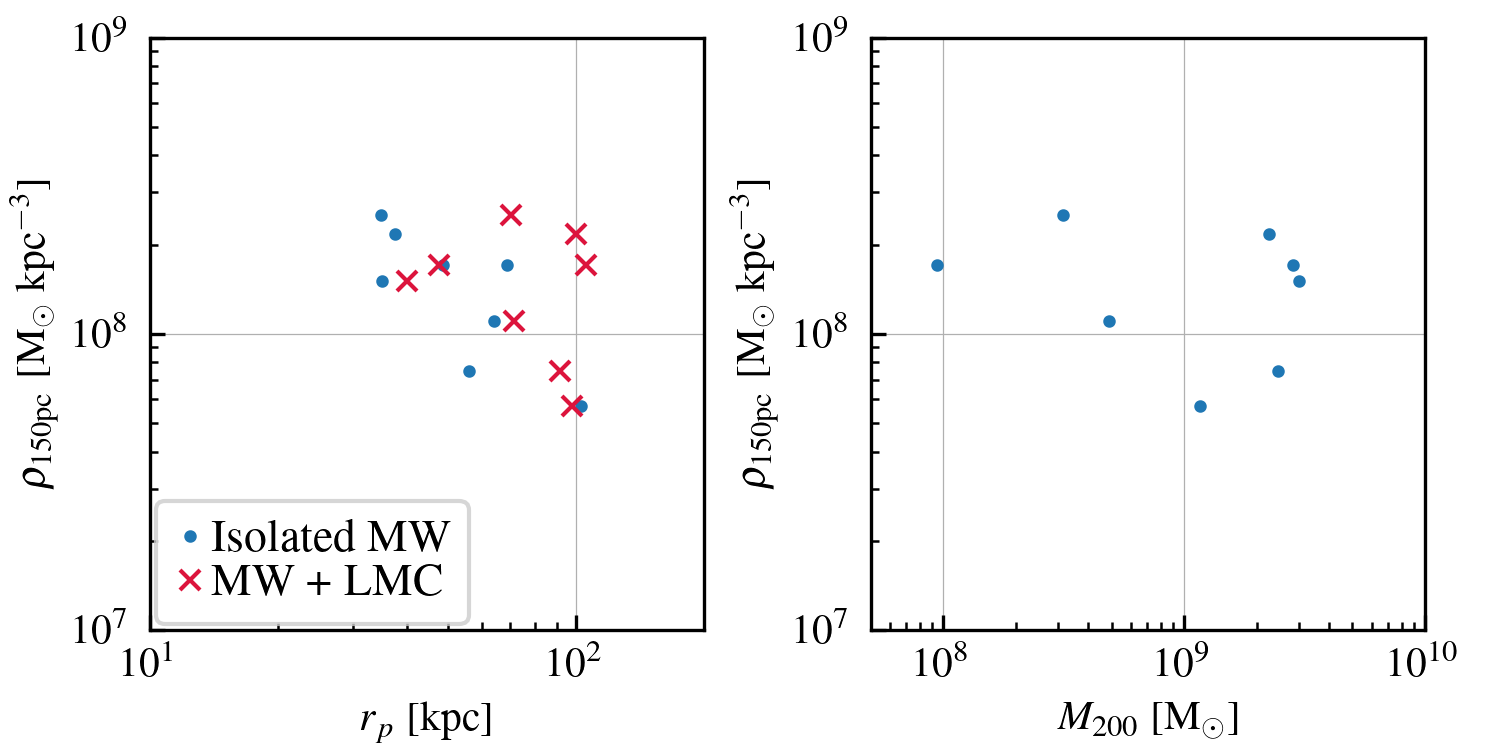
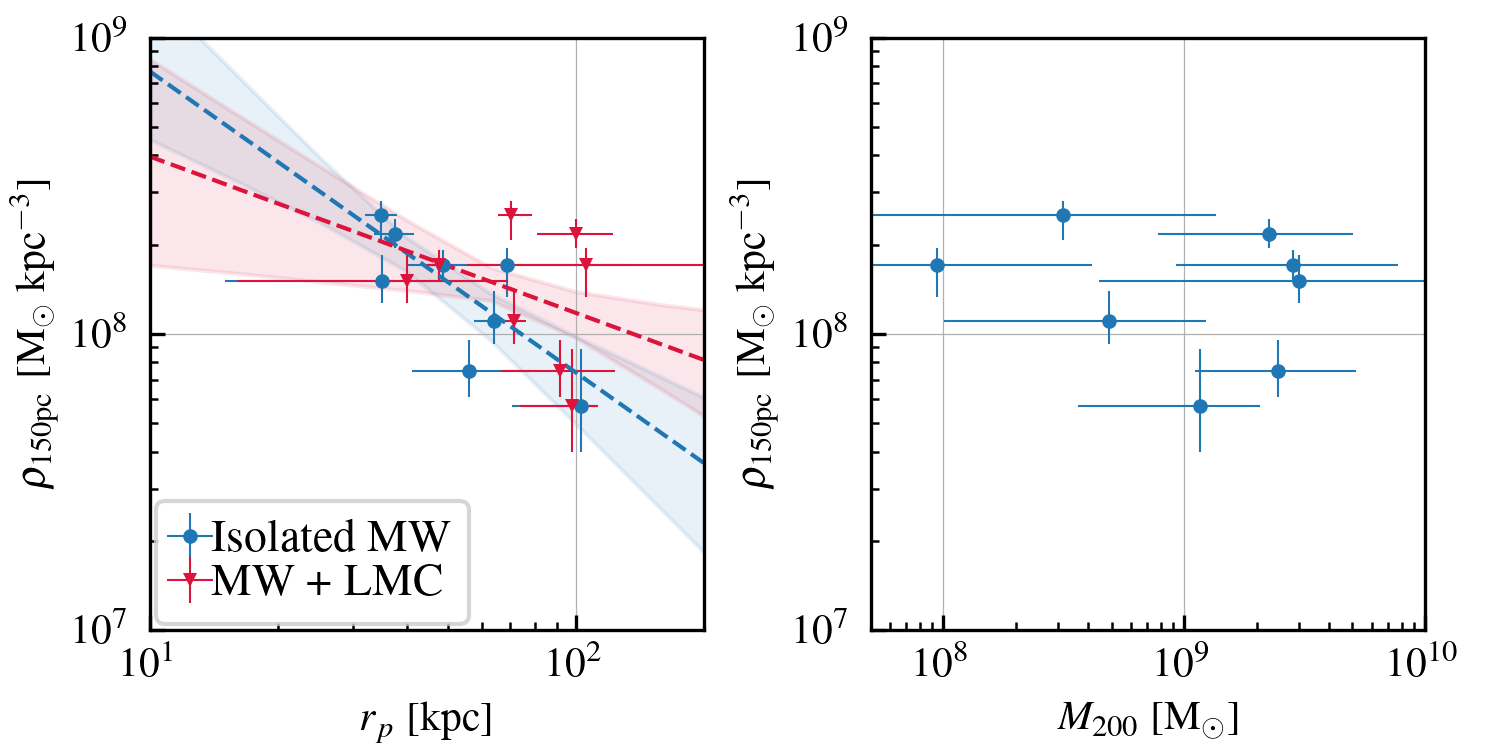
Add errors in observational data, propagate to M200 estimation, do MCMC fit for density-pericenter relation

diff --git a/examples/total_halo_mass.py b/examples/total_halo_mass.py
@@ -5,6 +5,88 @@ from scipy.interpolate import interp1d
 from pylab import *
 import matplotlib.pyplot as plt
 import os
+import emcee
+from scipy.optimize import minimize
+from multiprocessing import Pool
+import corner
+
+
+def log_model(x, q, m):
+    # Model: Power-law function
+    # f_theta = 10^q r^m
+    # log10 f_theta
+    f = q + m * x
+    return f
+
+def log_prior(theta):
+    """
+    The natural logarithm of the prior probability.
+    It sets prior to 1 (log prior to 0) if params are in range, and zero (-inf) otherwise.
+    Args: theta (tuple): a sample containing individual parameter values
+    """
+    q, m = theta
+    log_prior = -np.inf
+    if -15 < q < 15 and -15 < m < 15 : log_prior = 0.0
+    return log_prior
+
+def log_likelihood(theta, x, y, xerr, yerr):
+    """
+    The natural logarithm of the joint likelihood.
+    Args:
+        theta (tuple): a sample containing individual parameter values
+        x (array): values over which the data/model is defined
+        y (array): the set of data
+        xerr (array): the standard deviation of the data points
+        yerr (array): the standard deviation of the data points
+    """
+    q, m = theta
+    model = log_model(x, q, m)
+    sigma2 = yerr**2 + (m * 10**model) **2 * (xerr / 10**x) **2
+    ll = (10**y - 10**model) ** 2 / sigma2
+    ll += np.log( 2. * np.pi * sigma2 )
+    log_l = -0.5 * np.sum(ll)
+    return log_l
+
+def log_posterior(theta, x, y, xerr, yerr):
+    """
+    The natural logarithm of the joint posterior.
+    Args:
+        theta (tuple): a sample containing individual parameter values
+        x (array): values over which the data/model is defined
+        y (array): the set of data
+        xerr (array): the standard deviation of the data points
+        yerr (array): the standard deviation of the data points
+    """
+    lp = log_prior(theta)
+    if not np.isfinite(lp):
+        return -np.inf
+    return lp + log_likelihood(theta, x, y, xerr, yerr)
+
+def run_mcmc(x, y, xerr, yerr, soln):
+
+    pos = soln.x + 1e-4 * np.random.randn(32, 2)
+    nwalkers, ndim = pos.shape
+
+    sampler = emcee.EnsembleSampler(nwalkers, ndim, log_posterior, args=(x, y, xerr, yerr))
+    start = time.time()
+    sampler.run_mcmc(pos, 5000, progress=True)
+    end = time.time()
+    multi_time = end - start
+    print("Multiprocessing took {0:.1f} minutes".format(multi_time / 60))
+
+    samples = sampler.get_chain(discard=100, thin=15, flat=True)
+    q = np.median(samples[:, 0])
+    m = np.median(samples[:, 1])
+    qerrl = np.percentile(samples[:, 0], 16)
+    qerrh = np.percentile(samples[:, 0], 84)
+    merrl = np.percentile(samples[:, 1], 16)
+    merrh = np.percentile(samples[:, 1], 84)
+    print(q, q-qerrl, qerrh-q)
+    print(m, m-merrl, merrh-m)
+
+    print("Mean autocorrelation time: {0:.3f} steps".format(np.mean(sampler.get_autocorr_time(quiet=True))))
+    return samples
+
 
 def calcR200(r, r_s, M_s):
     rhocrit = 2.775e11 * 0.6777 ** 2 / (1e3) ** 3  # Msun/kpc^3
@@ -41,10 +123,35 @@ def calculate_r_s(Vmax, Rmax):
     r_s = 0.462 * Rmax
     return r_s
 
+def calculate_error_r_s(Vmax, Rmax, delta_Vmax, delta_Rmax):
+    r_s = calculate_r_s(Vmax, Rmax)
+    e_r_s = r_s * delta_Rmax / Rmax
+    return e_r_s
+
+def calculate_error_rho_s(Vmax, Rmax, delta_Vmax, delta_Rmax):
+    rho_s = calculate_rho_s(Vmax, Rmax)
+    e_rho_s = (delta_Vmax / Vmax)**2 + (delta_Rmax / Rmax)**2
+    e_rho_s = np.sqrt(e_rho_s) * rho_s
+    return e_rho_s
+
 def NFW_profile(r, rho_s, r_s):
     rho = np.log10(rho_s)
     rho -= np.log10( (r/r_s) * ((r/r_s) + 1.0)**2 )
     return 10**rho
+
+def calculate_error_NFW_rho(r, Vmax, Rmax, delta_Vmax, delta_Rmax):
+    r_s = calculate_r_s(Vmax, Rmax)
+    rho_s = calculate_rho_s(Vmax, Rmax)
+    e_rho_s = calculate_error_rho_s(Vmax, Rmax, delta_Vmax, delta_Rmax)
+    e_r_s = calculate_error_r_s(Vmax, Rmax, delta_Vmax, delta_Rmax)
+
+    rho = NFW_profile(r, rho_s, r_s)
+    error_rho = (e_rho_s / rho_s)**2
+    error_rho += ( (e_r_s / r_s) * ((3. + r_s / r) / (1. + r_s / r)) )**2
+    error_rho *= rho**2
+    error_rho = np.sqrt(error_rho)
+    return error_rho
+
 
 def calculate_M200(R200):
     rhocrit = 2.775e11 * 0.6777 ** 2 / (1e3) ** 3  # Msun/kpc^3
@@ -65,20 +172,79 @@ def rho_mean(mass, r):
 def calculate_R200(rho_mean, r):
     rhocrit = 2.775e11 * 0.6777 ** 2 / (1e3) ** 3  # Msun/kpc^3
     function_interpolate = interp1d(rho_mean, r)
-    R200 = function_interpolate(200 * rhocrit)
+
+    if 200 * rhocrit > np.max(rho_mean):
+        R200 = 1. # Dummy value
+    else:
+        R200 = function_interpolate(200 * rhocrit)
     return R200
+
+
+def run_best_fit(r_p, rho_150pc, color):
+    # Prepare arrays ..
+    x = np.log10(r_p[0, :])
+    xerr = r_p[1, :] ** 2 + r_p[2, :] ** 2
+    xerr = np.sqrt(xerr)
+
+    y = np.log10(rho_150pc[0, :] / 1e7)
+    yerr = rho_150pc[1, :] ** 2 + rho_150pc[2, :] ** 2
+    yerr = np.sqrt(yerr) / 1e7
+
+    # Make initial fit ..
+    np.random.seed(42)
+    nl = lambda *args: -log_likelihood(*args)
+    initial = np.array([2, -0.5])
+    soln = minimize(nl, initial, args=(x, y, xerr, yerr))
+    q, m = soln.x
+    print('=======')
+    print(q, m)
+
+    samples = run_mcmc(x, y, xerr, yerr, soln)
+
+    q = np.median(samples[:, 0])
+    m = np.median(samples[:, 1])
+
+    xrange = np.arange(np.log10(10), np.log10(500), 0.2)
+    num_range = len(xrange)
+    yrange = np.ones((2,num_range))
+    for i in range(num_range):
+        yrange[0, i] = np.percentile(1e7 * 10 ** log_model(xrange[i], samples[:, 0], samples[:, 1]), 16)
+        yrange[1, i] = np.percentile(1e7 * 10 ** log_model(xrange[i], samples[:, 0], samples[:, 1]), 84)
+
+
+    # Plot ..
+    xrange = np.arange(np.log10(10), np.log10(500), 0.2)
+    plt.fill_between(10 ** xrange, yrange[0,:], yrange[1,:], color=color, alpha=0.1)
+    plt.plot(10 ** xrange, 1e7 * 10 ** log_model(xrange, q, m), '--', lw=1, color=color)
+
+    return samples
+
 
 GAIA_PATH = "../data/Gaia/"
 Kaplinghat_data = pd.read_csv(GAIA_PATH+"Kaplinghat_2019.csv").to_numpy()
 
+dSph = Kaplinghat_data[:,0]
+dSph = dSph[::2]
+
 Vmax = Kaplinghat_data[:,2]
+le_Vmax = Kaplinghat_data[:,2] + Kaplinghat_data[:,3]
+he_Vmax = Kaplinghat_data[:,2] + Kaplinghat_data[:,4]
 NFW_Vmax = 10**Vmax[::2] # Only NFW fit data; [km/s] units
+le_NFW_Vmax = NFW_Vmax - 10**le_Vmax[::2] # Only NFW fit data; [km/s] units
+he_NFW_Vmax = 10**he_Vmax[::2] - NFW_Vmax # Only NFW fit data; [km/s] units
+
 Rmax = Kaplinghat_data[:,5]
+le_Rmax = Kaplinghat_data[:,6] + Kaplinghat_data[:,5]
+he_Rmax = Kaplinghat_data[:,7] + Kaplinghat_data[:,5]
 NFW_Rmax = 10**Rmax[::2] # Only NFW fit data; [kpc] units
+le_NFW_Rmax = NFW_Rmax - 10**le_Rmax[::2]  # Only NFW fit data; [kpc] units
+he_NFW_Rmax = 10**he_Rmax[::2] - NFW_Rmax  # Only NFW fit data; [kpc] units
+he_NFW_Rmax /= 2 # Reducing uncertainty in Rmax by factor of 2
+le_NFW_Rmax /= 2 # Reducing uncertainty in Rmax by factor of 2
 
 num_satellites = len(NFW_Rmax)
-M200 = np.zeros(num_satellites)
-R200 = np.zeros(num_satellites)
+M200 = np.zeros((3,num_satellites))
+R200 = np.zeros((3,num_satellites))
 
 rho_s = np.zeros(num_satellites)
 r_s = np.zeros(num_satellites)
@@ -86,34 +252,58 @@ r_range = np.arange(-4, 4, 0.01) # Some radial range
 r_range = 10**r_range # to kpc
 
 for i in range(num_satellites):
-    
     rho_s[i] = calculate_rho_s(NFW_Vmax[i], NFW_Rmax[i])
     r_s[i] = calculate_r_s(NFW_Vmax[i], NFW_Rmax[i])
     rho = NFW_profile(r_range, rho_s[i], r_s[i])
     mass_within_r = mass(rho, r_range)
     rho_within_r = rho_mean(mass_within_r, r_range)
-    R200[i] = calculate_R200(rho_within_r, r_range)
-    M200[i] = calculate_M200(R200[i])
+    R200[0, i] = calculate_R200(rho_within_r, r_range)
+    M200[0, i] = calculate_M200(R200[0, i])
+
+    ## Dealing with error propagration..
+    low_error_rho = rho - calculate_error_NFW_rho(r_range, NFW_Vmax[i], NFW_Rmax[i], le_NFW_Vmax[i], le_NFW_Rmax[i])
+    mass_within_r = mass(low_error_rho, r_range)
+    rho_within_r = rho_mean(mass_within_r, r_range)
+    R200[1, i] = calculate_R200(rho_within_r, r_range)
+    M200[1, i] = M200[0, i] - calculate_M200(R200[1, i])
+
+    high_error_rho = rho + calculate_error_NFW_rho(r_range, NFW_Vmax[i], NFW_Rmax[i], he_NFW_Vmax[i], he_NFW_Rmax[i])
+    mass_within_r = mass(high_error_rho, r_range)
+    rho_within_r = rho_mean(mass_within_r, r_range)
+    R200[2, i] = calculate_R200(rho_within_r, r_range)
+    M200[2, i] = calculate_M200(R200[2, i]) - M200[0, i]
 
     # Alternative method for NFW:
     # M_s = calc_Ms(r_s[i], rho_s[i])
     # R200[i] = fsolve(calcR200, 100., args=(r_s[i], M_s))
     # M200[i] = calculate_M200(R200b[i])
 
-dSph = Kaplinghat_data[:,0]
-dSph = dSph[::2]
 
-r_p_Isolated = np.zeros(num_satellites) # Reading pericenter assuming isolated MW
-r_p_LMC = np.zeros(num_satellites)      # Reading pericenter assuming MW perturbed by LMC
-rho_150pc_K19 = np.zeros(num_satellites) # Reading Kaplinghat+ 2019 determination under NFW
+# We remove CVnI
+num_satellites -= 1
+dSph = dSph[:-1]
+
+r_p_Isolated = np.zeros((3,num_satellites)) # Reading pericenter assuming isolated MW
+r_p_LMC = np.zeros((3,num_satellites))      # Reading pericenter assuming MW perturbed by LMC
+rho_150pc_K19 = np.zeros((3,num_satellites)) # Reading Kaplinghat+ 2019 determination under NFW
+
 
 for i, dSphi in enumerate(dSph):
     filename = "Cardona_2023_"+dSphi+".csv"
     if not os.path.exists(GAIA_PATH + filename): continue
     data = pd.read_csv(GAIA_PATH + filename).to_numpy()
-    r_p_Isolated[i] = data[2,0]
-    r_p_LMC[i] = data[3,0]
-    rho_150pc_K19[i] = data[8,0] * 1e7 #Msun/kpc^3
+    r_p_Isolated[0,i] = data[2,0] # Pericenter [kpc]
+    r_p_Isolated[1,i] = data[2,1] # (Error) Pericenter [kpc]
+    r_p_Isolated[2,i] = data[2,2] # (Error) Pericenter [kpc]
+    r_p_LMC[0,i] = data[3,0] # Pericenter [kpc]
+    r_p_LMC[1,i] = data[3,1] # Pericenter [kpc]
+    r_p_LMC[2,i] = data[3,2] # Pericenter [kpc]
+    rho_150pc_K19[0,i] = data[8,0] * 1e7 # Central density [Msun/kpc^3]
+    rho_150pc_K19[1,i] = data[8,1] * 1e7 # Central density [Msun/kpc^3]
+    rho_150pc_K19[2,i] = data[8,2] * 1e7 # Central density [Msun/kpc^3]
+
+
+
 
 #################
 # Plot parameters
@@ -136,8 +326,14 @@ plt.rcParams.update(params)
 plt.figure()
 ax = plt.subplot(1, 2, 1)
 plt.grid(linestyle='-', linewidth=0.3)
-plt.plot(r_p_Isolated, rho_150pc_K19, 'o', color='tab:blue',label='Isolated MW')
-plt.plot(r_p_LMC, rho_150pc_K19, 'x',ms=5, color='crimson',label='MW + LMC')
+plt.errorbar(r_p_Isolated[0,:], rho_150pc_K19[0,:], xerr=r_p_Isolated[1:,:], yerr=rho_150pc_K19[1:,:],
+         marker='o', markersize=3.5, markeredgecolor="none", ls='none', lw=0.5, c='tab:blue',label='Isolated MW')
+
+plt.errorbar(r_p_LMC[0,:], rho_150pc_K19[0,:], xerr=r_p_LMC[1:,:], yerr=rho_150pc_K19[1:,:],
+         marker='v', markersize=3.5, markeredgecolor="none", ls='none', lw=0.5, c='crimson',label='MW + LMC')
+
+samples_isolated = run_best_fit(r_p_Isolated, rho_150pc_K19, 'tab:blue')
+samples_LMC = run_best_fit(r_p_LMC, rho_150pc_K19, 'crimson')
 
 plt.legend(loc=[0.01, 0.01], labelspacing=0.05,
            handlelength=0.7, handletextpad=0.1,
@@ -153,7 +349,10 @@ ax.tick_params(direction='in', axis='both', which='both', pad=4.5)
 ####
 ax = plt.subplot(1, 2, 2)
 plt.grid(linestyle='-', linewidth=0.3)
-plt.plot(M200, rho_150pc_K19, 'o', color='tab:blue')
+
+plt.errorbar(M200[0,:-1], rho_150pc_K19[0,:], yerr=rho_150pc_K19[1:,:], xerr=M200[1:,:-1],
+             marker='o', markersize=3.5, markeredgecolor="none", ls='none', lw=0.5, c='tab:blue')
+
 
 plt.axis([5e7, 1e10, 1e7, 1e9])
 plt.yscale('log')
@@ -165,3 +364,23 @@ ax.tick_params(direction='in', axis='both', which='both', pad=4.5)
 filename = "Observational_data.png"
 plt.savefig(filename, dpi=300)
 plt.close()
+
+
+###
+
+# labels = ['q', 'm']
+# fig = corner.corner(samples_isolated,
+#                     labels=labels,
+#                     # truths=[q, m],
+#                     quantiles=[0.16, 0.5, 0.84],
+#                     show_titles=True,
+#                     title_kwargs={"fontsize": 12})
+# plt.savefig('corner_plot_rp_Isolated', dpi=300)
+#
+# fig = corner.corner(samples_LMC,
+#                     labels=labels,
+#                     # truths=[q, m],
+#                     quantiles=[0.16, 0.5, 0.84],
+#                     show_titles=True,
+#                     title_kwargs={"fontsize": 12})
+# plt.savefig('corner_plot_rp_LMC', dpi=300)

diff --git a/examples/density_pericenter_correlation.py b/examples/density_pericenter_correlation.py
@@ -11,8 +11,8 @@ Kaplinghat_data = pd.read_csv(GAIA_PATH+"Kaplinghat_2019.csv").to_numpy()
 dSph = Kaplinghat_data[:,0]
 dSph = dSph[::2]
 num_satellites = len(dSph)
-r_p_Isolated = np.zeros(num_satellites) # Reading pericenter assuming isolated MW
-r_p_LMC = np.zeros(num_satellites)      # Reading pericenter assuming MW perturbed by LMC
+r_p_Isolated = np.zeros(num_satellites)  # Reading pericenter assuming isolated MW
+r_p_LMC = np.zeros(num_satellites)       # Reading pericenter assuming MW perturbed by LMC
 rho_150pc_K19 = np.zeros(num_satellites) # Reading Kaplinghat+ 2019 determination under NFW
 
 for i, dSphi in enumerate(dSph):
